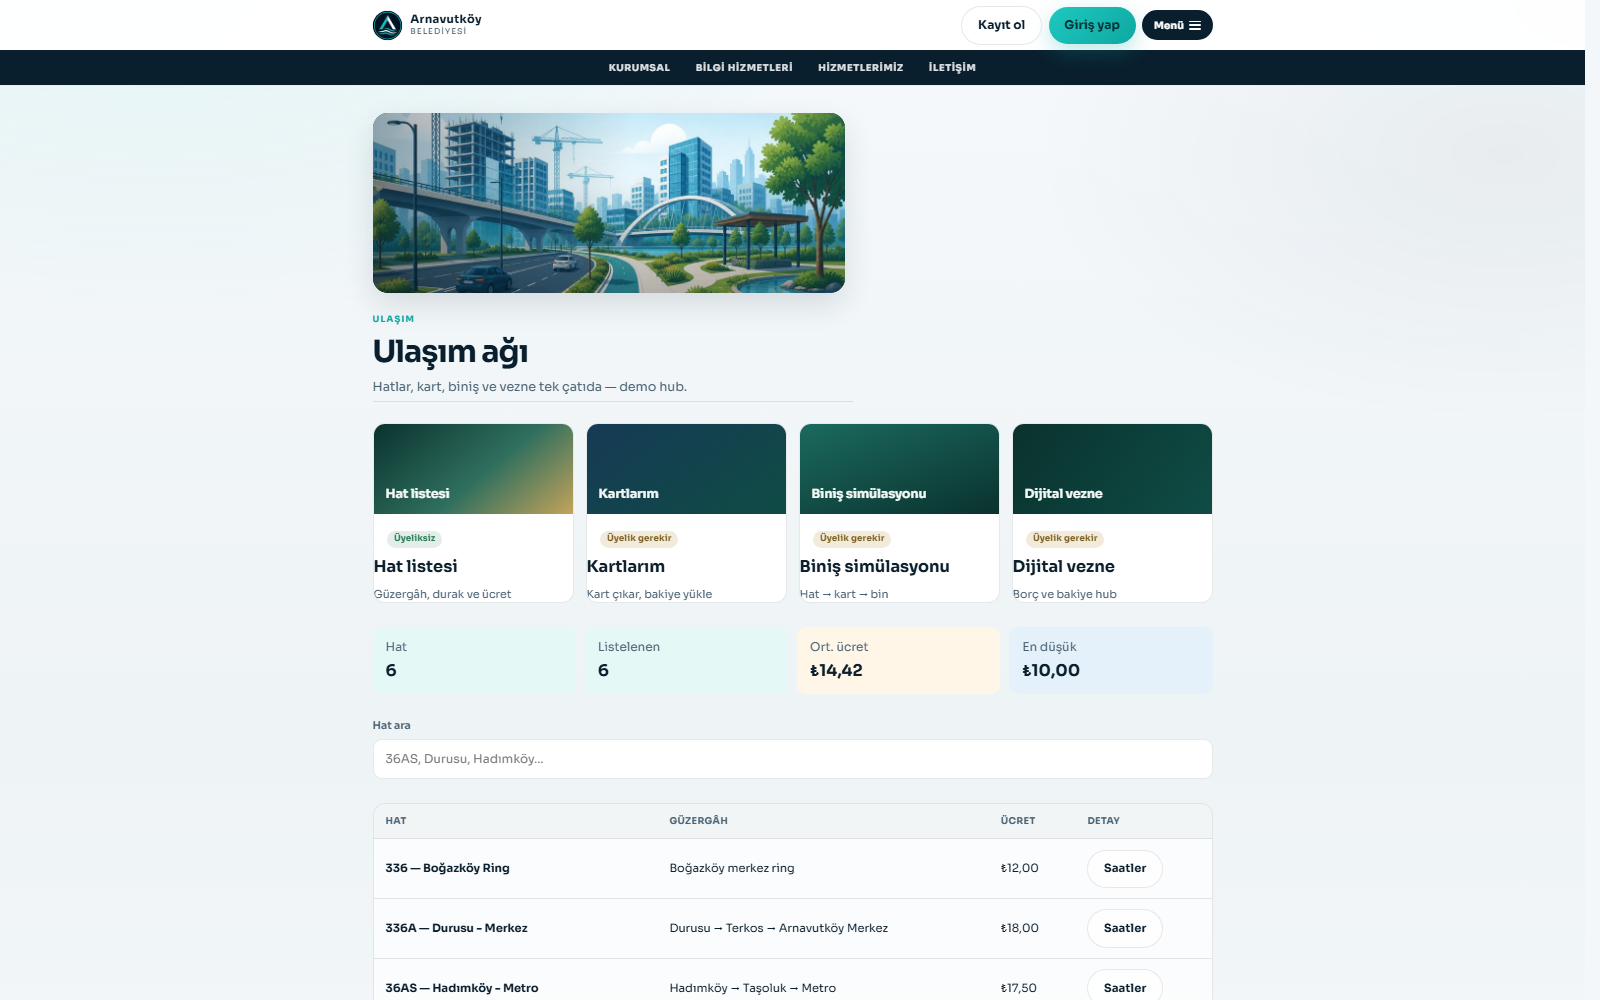
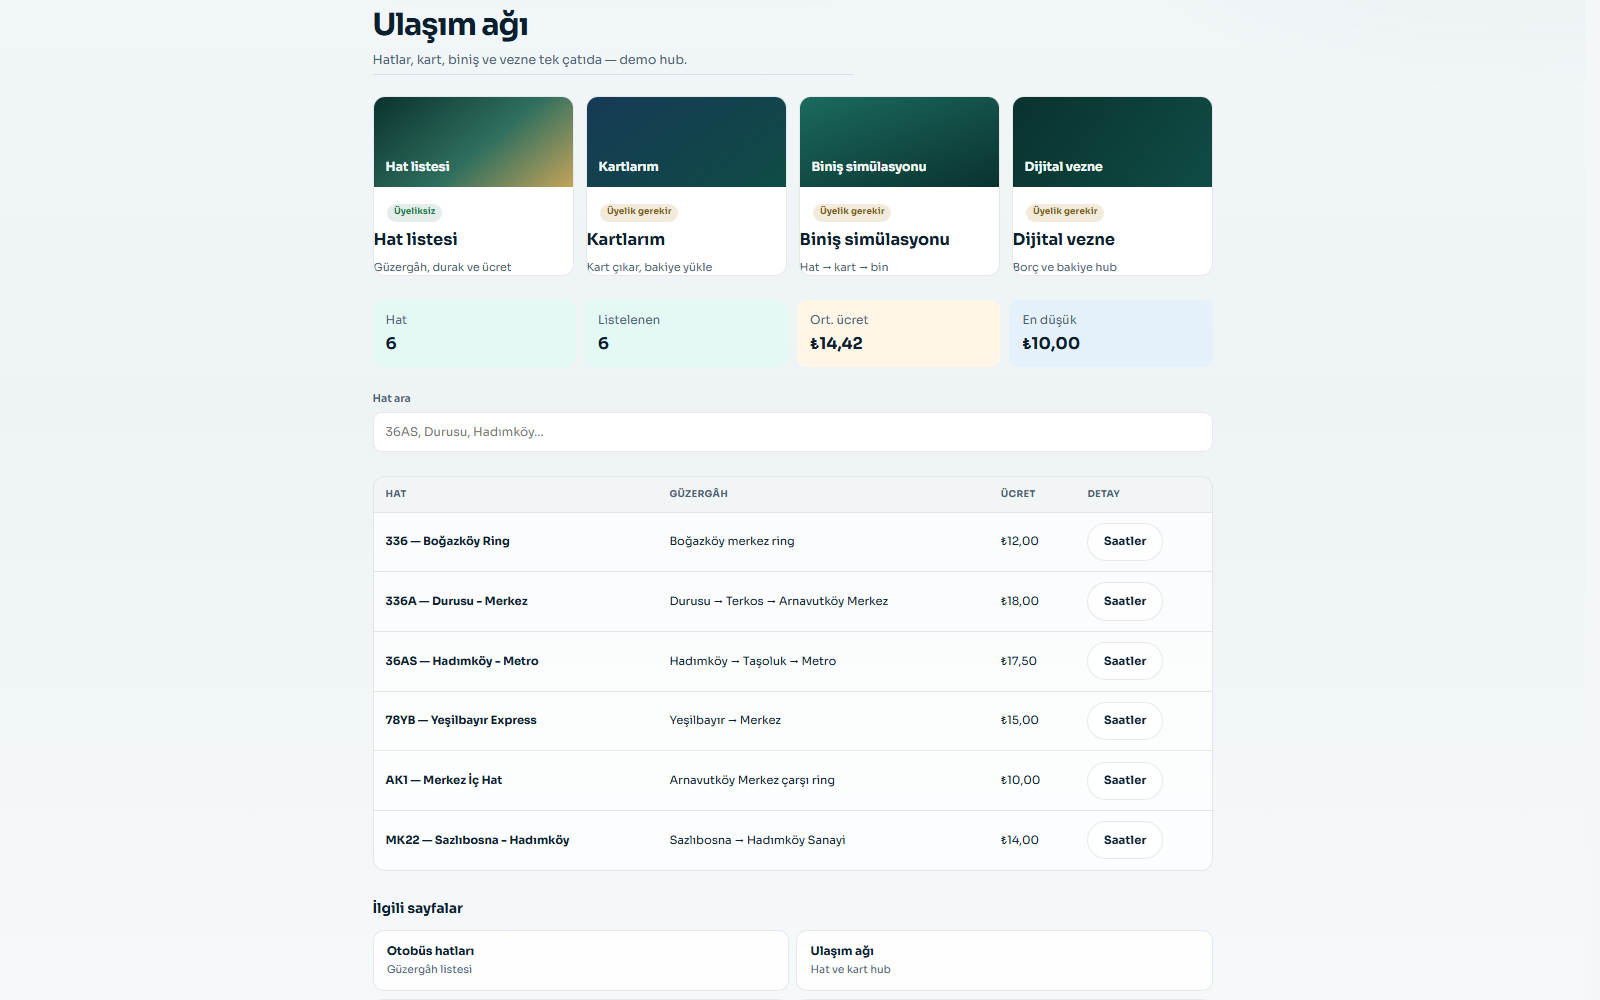
Trim README gallery: drop login and home-services shots.
Recapture ulasim agi from the page title at 75% zoom so the docs focus on content rather than chrome.

diff --git a/README.md b/README.md
@@ -23,29 +23,25 @@ resimli duyuru-haber kartları ve tutarlı `PublicPage` içerik şablonu.
 
 ## Ekran görüntüleri
 
-| Ana sayfa (hero) | Giriş |
+| Ana sayfa (hero) | Duyurular ve Haberler |
 | :---: | :---: |
-| <img src="docs/screenshots/home-guest.png" alt="Ana sayfa hero ve hızlı erişim dock" width="420" /> | <img src="docs/screenshots/login.png" alt="E-posta ile giriş" width="420" /> |
+| <img src="docs/screenshots/home-guest.png" alt="Ana sayfa hero ve hızlı erişim dock" width="420" /> | <img src="docs/screenshots/home-stories.png" alt="Resimli duyuru ve haber kartları" width="420" /> |
 
-| Duyurular ve Haberler | E-Belediye |
+| E-Belediye | Kurumsal |
 | :---: | :---: |
-| <img src="docs/screenshots/home-stories.png" alt="Resimli duyuru ve haber kartları" width="420" /> | <img src="docs/screenshots/e-belediye.png" alt="E-Belediye hizmet hub" width="420" /> |
+| <img src="docs/screenshots/e-belediye.png" alt="E-Belediye hizmet hub" width="420" /> | <img src="docs/screenshots/kurumsal.png" alt="Kurumsal sayfa kapak ve içerik" width="420" /> |
 
-| Kurumsal | Vatandaş paneli |
+| Vatandaş paneli | Borçlarım |
 | :---: | :---: |
-| <img src="docs/screenshots/kurumsal.png" alt="Kurumsal sayfa kapak ve içerik" width="420" /> | <img src="docs/screenshots/panel-vatandas.png" alt="Vatandaş paneli özeti" width="420" /> |
+| <img src="docs/screenshots/panel-vatandas.png" alt="Vatandaş paneli özeti" width="420" /> | <img src="docs/screenshots/borclar.png" alt="Borç listesi ve ödeme" width="420" /> |
 
-| Borçlarım | Hizmet masası |
+| Hizmet masası | Muhtarlıklar |
 | :---: | :---: |
-| <img src="docs/screenshots/borclar.png" alt="Borç listesi ve ödeme" width="420" /> | <img src="docs/screenshots/hizmet-masasi.png" alt="Hizmet masası talepleri" width="420" /> |
+| <img src="docs/screenshots/hizmet-masasi.png" alt="Hizmet masası talepleri" width="420" /> | <img src="docs/screenshots/muhtarliklar.png" alt="Mahalle / muhtar dizini" width="420" /> |
 
-| Muhtarlıklar | Ulaşım kartı |
+| Ulaşım kartı | Ulaşım ağı |
 | :---: | :---: |
-| <img src="docs/screenshots/muhtarliklar.png" alt="Mahalle / muhtar dizini" width="420" /> | <img src="docs/screenshots/ulasim-kart.png" alt="Ulaşım kartı bakiye ve biniş" width="420" /> |
-
-| Ulaşım ağı | Belediye hizmetleri |
-| :---: | :---: |
-| <img src="docs/screenshots/ulasim-agi.png" alt="Ulaşım ağı hub" width="420" /> | <img src="docs/screenshots/home-services.png" alt="Ana sayfa hizmet kartları" width="420" /> |
+| <img src="docs/screenshots/ulasim-kart.png" alt="Ulaşım kartı bakiye ve biniş" width="420" /> | <img src="docs/screenshots/ulasim-agi.png" alt="Ulaşım ağı hub" width="420" /> |
 
 ## Öne çıkanlar
 
